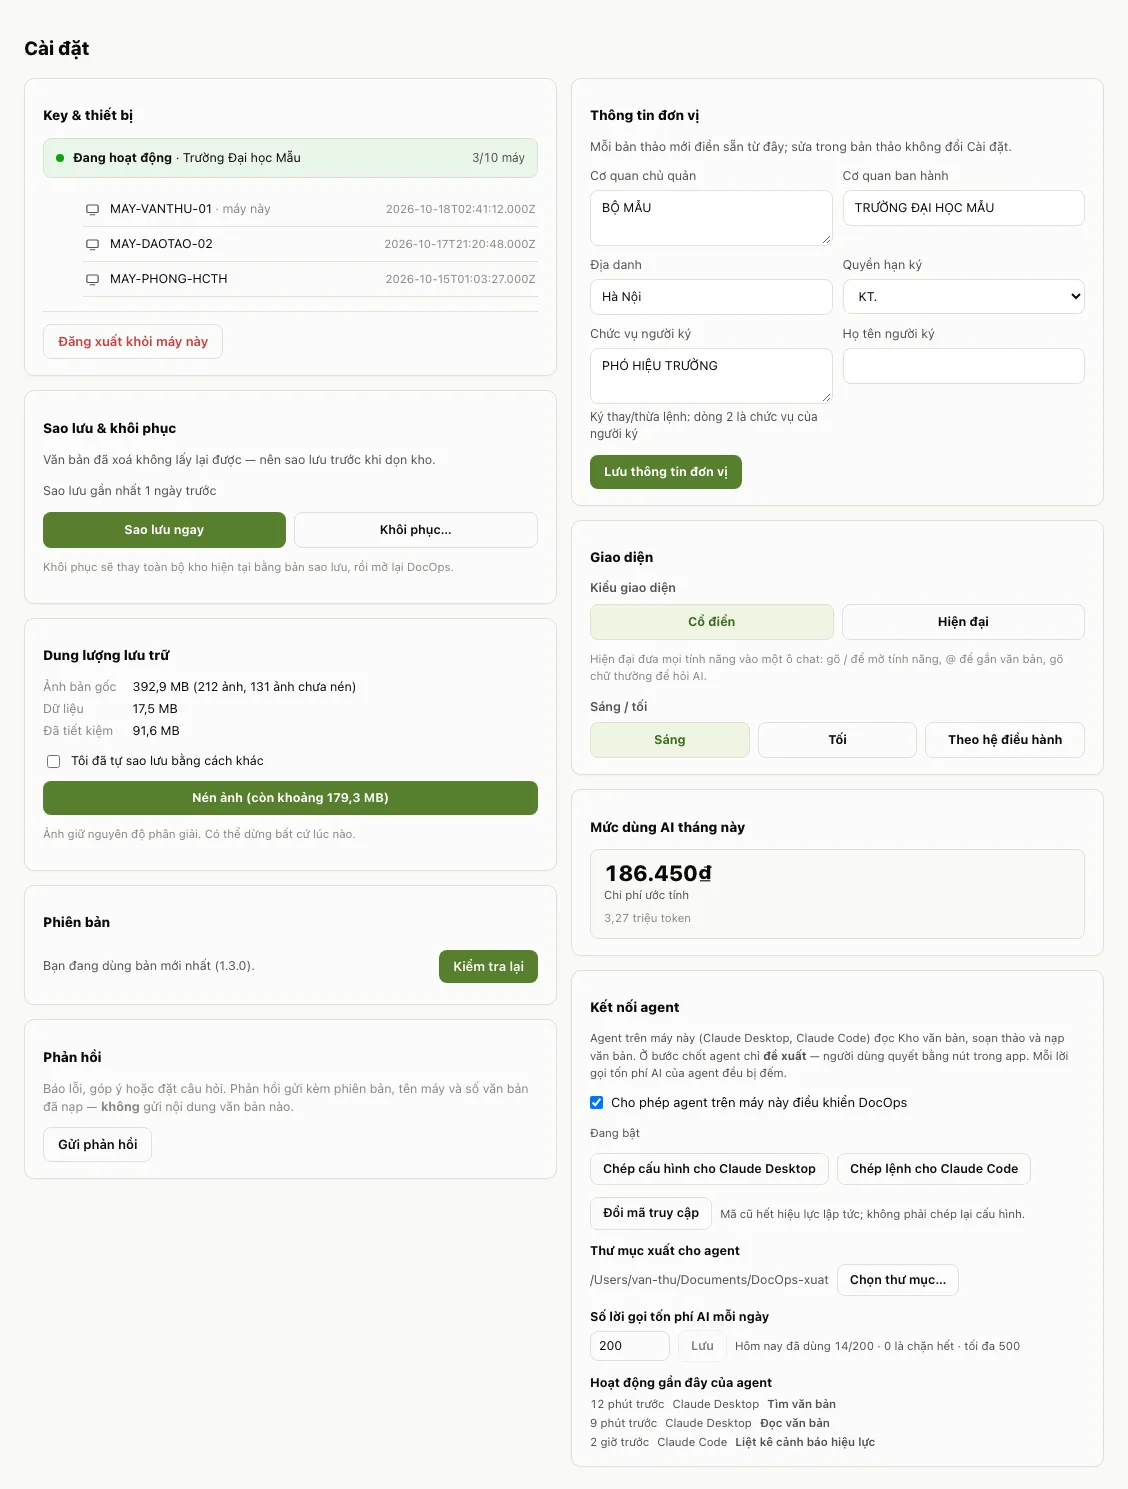
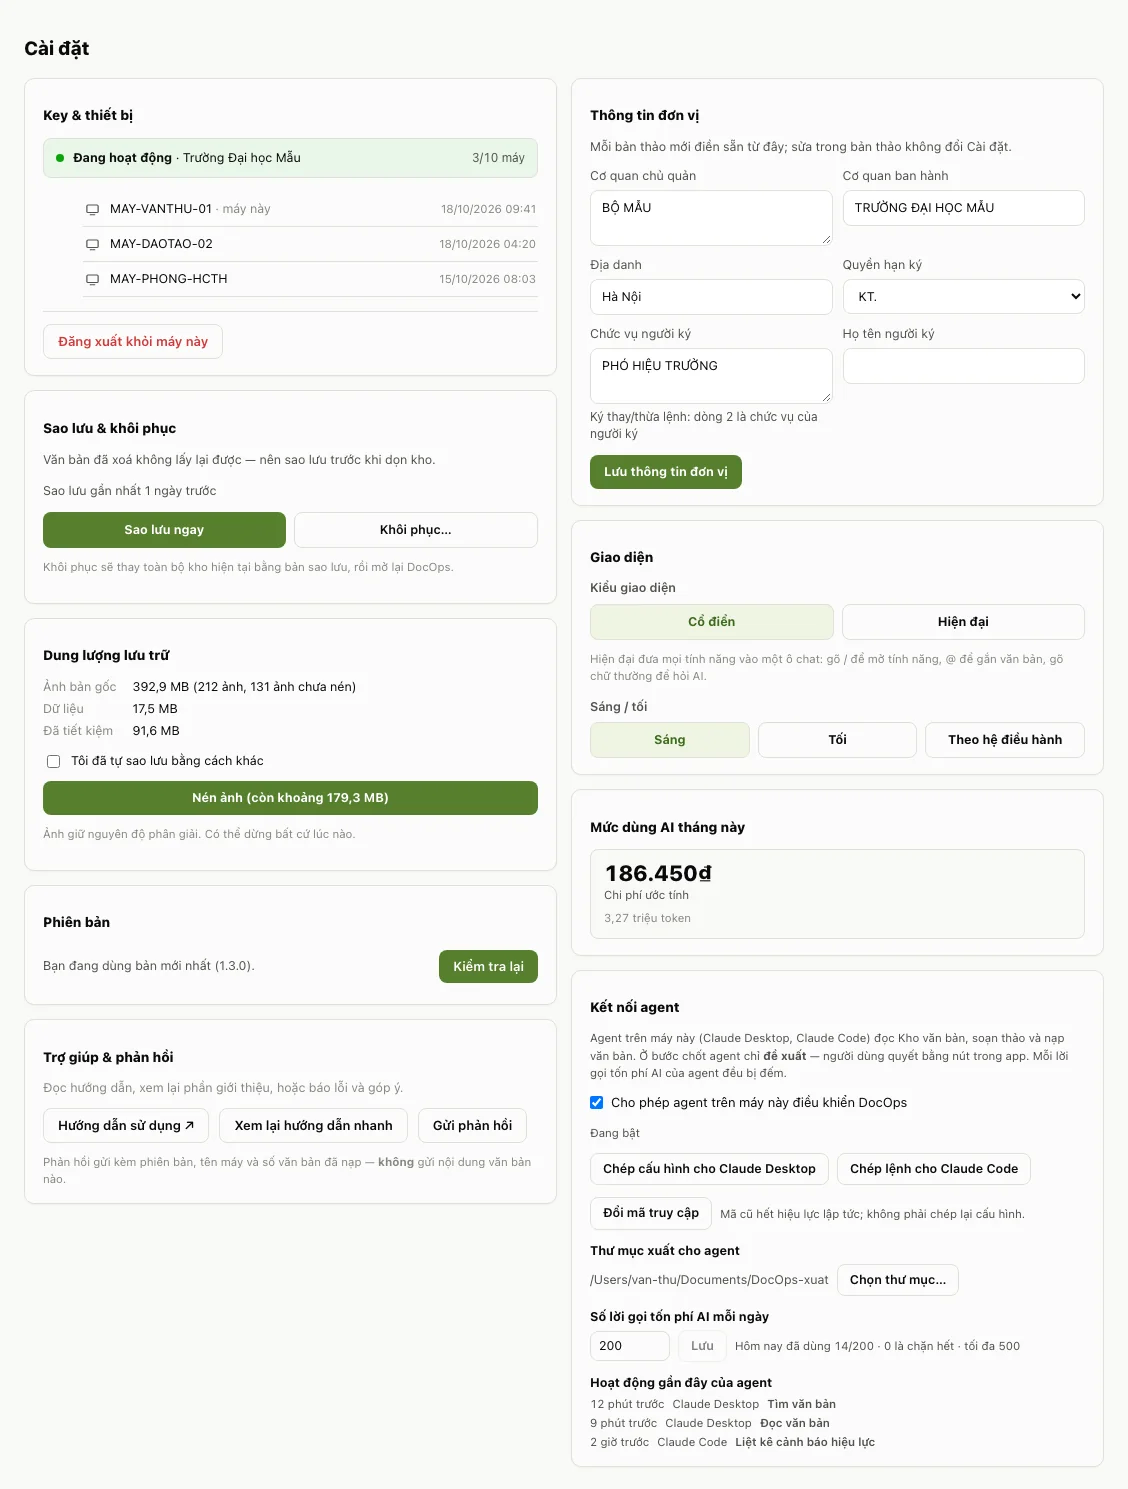
fix(huong-dan): chụp lại ảnh theo app mới (thẻ Trợ giúp & phản hồi, ngày dd/mm/yyyy hh:mm, đoạn cảnh báo nạp liền một khối); trang cài đặt và liên hệ gọi đúng tên thẻ
- chụp lại cả 12 ảnh từ desktop@733e570 (nhánh du-an-2-onboarding): cai-dat có thẻ "Trợ giúp & phản hồi" với ba nút, cau-hoi-thuong-gap ghi lần thấy máy
  dạng 18/10/2026 09:41, nap-van-ban có đoạn cảnh báo H4 là một đoạn văn; kích thước ảnh không đổi nên width/height giữ nguyên
- capture-guide-images.mjs: tìm thẻ cuối cột trái theo tên mới; đặt onboardingTour.doneAt để tour lần đầu không bao giờ đè lên ảnh
- content/install/{vi,en}/{macos,windows}.mdx và messages/{vi,en}.json (trang Liên hệ): "mục Phản hồi" → thẻ "Trợ giúp & phản hồi" trong Cài đặt
- tests/unit/guides.test.ts: bốn trang cài đặt và hộp "Hai cách gửi" của trang Liên hệ phải gọi thẻ bằng tên hiện tại; đã đo bằng đột biến
- content/guide: không còn "Phản hồi" chỉ thẻ (đã là "Trợ giúp & phản hồi"); ngày hướng dẫn giữ 2026-10-17 vì test "updated không ở tương lai" đỏ nếu đặt 2026-10-18 trước 07:00 giờ Việt Nam

Changed region(s): [[0.031, 0.7105, 0.3413, 0.8032], [0.3413, 0.7414, 0.4654, 0.8032], [0.4344, 0.1236, 0.4654, 0.1854]]

diff --git a/tests/unit/guides.test.ts b/tests/unit/guides.test.ts
@@ -19,6 +19,23 @@ for (const locale of ['vi', 'en']) {
   }
 }
 
+// Thẻ cuối cột trái Cài đặt của app đã đổi tên từ "Phản hồi" thành "Trợ giúp & phản hồi" (Dự án 2 Task 8). Trang cài đặt và trang liên hệ
+// chỉ người dùng tới thẻ ấy, nên phải gọi đúng tên mới (tên nút "Gửi phản hồi" và mục menu Trợ giúp → Gửi phản hồi thì giữ).
+for (const locale of ['vi', 'en']) {
+  for (const os of GUIDE_OS) {
+    test(`${locale}/${os} install page points at the Settings card by its current name`, () => {
+      const src = readFileSync(`content/install/${locale}/${os}.mdx`, 'utf8')
+      expect(src).toContain('**Trợ giúp & phản hồi**')
+      expect(src).not.toMatch(/\*\*(Phản hồi|Feedback)\*\*/)
+    })
+  }
+  test(`${locale} contact page names the same card`, () => {
+    const box = (JSON.parse(readFileSync(`messages/${locale}.json`, 'utf8')) as { contact: { support: { boxBody: string } } }).contact.support.boxBody
+    expect(box).toContain('Trợ giúp & phản hồi')
+    expect(box).not.toMatch(/mục Phản hồi|Feedback inside/)
+  })
+}
+
 test('isGuideOs', () => {
   expect(isGuideOs('macos')).toBe(true)
   expect(isGuideOs('linux')).toBe(false)
